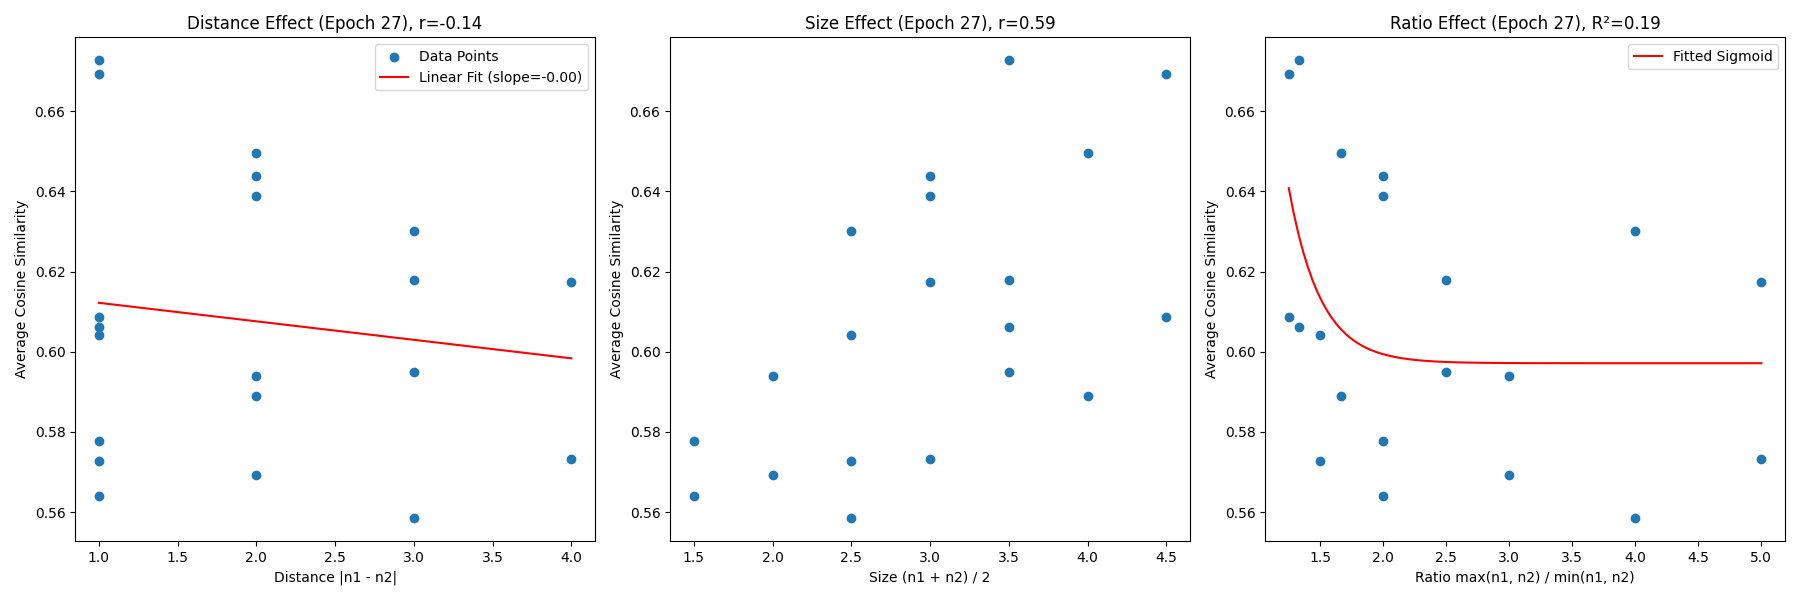
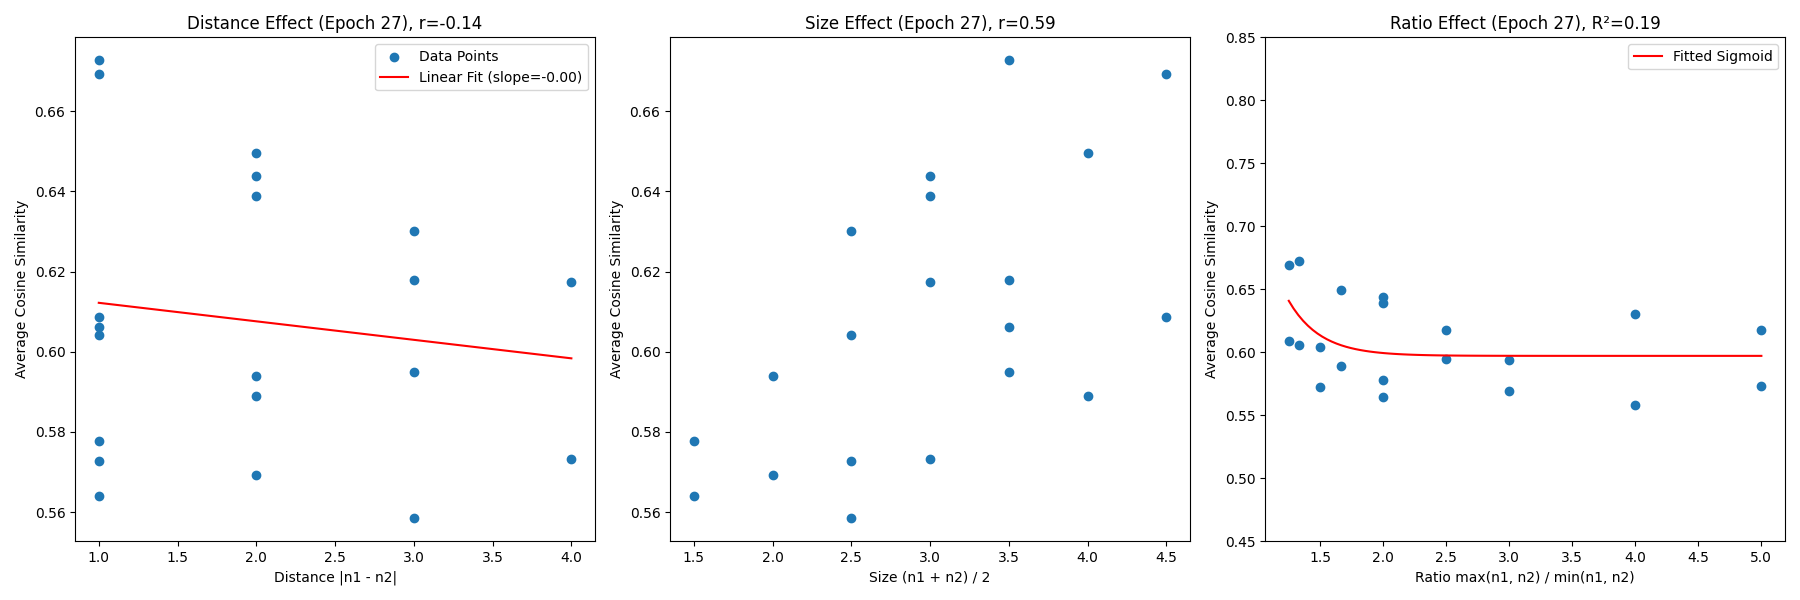
add ylim for natural images with sigmoid

diff --git a/effects_natural-images_sigmoid/effects.py b/effects_natural-images_sigmoid/effects.py
@@ -87,7 +87,7 @@ def plot_effects(
         x_fit = np.linspace(min(ratios), max(ratios), 100)
         y_fit = popt[2] / (1 + np.exp(-(x_fit - popt[1]) / popt[0])) + popt[3]
         axes[2].plot(x_fit, y_fit, "r-", label="Fitted Sigmoid")  # Plot fitted line
-
+        axes[2].set_ylim(0.45, 0.85)  # Set y-axis range
         axes[2].set_xlabel("Ratio max(n1, n2) / min(n1, n2)")
         axes[2].set_ylabel("Average Cosine Similarity")
         axes[2].set_title(f"Ratio Effect (Epoch {epoch}), R²={r2:.2f}")
@@ -99,6 +99,7 @@ def plot_effects(
         axes[2].set_xlabel("Ratio max(n1, n2) / min(n1, n2)")
         axes[2].set_ylabel("Average Cosine Similarity")
         axes[2].set_title(f"Ratio Effect (Epoch {epoch}) - No Fit")
+        axes[2].set_ylim(0.45, 0.85)  # Set y-axis range
 
     fig.tight_layout()  # Adjust subplot parameters for a tight layout
     plt.savefig(f"Combined_Effects_Epoch_{epoch}.png")  # Save as PNG
